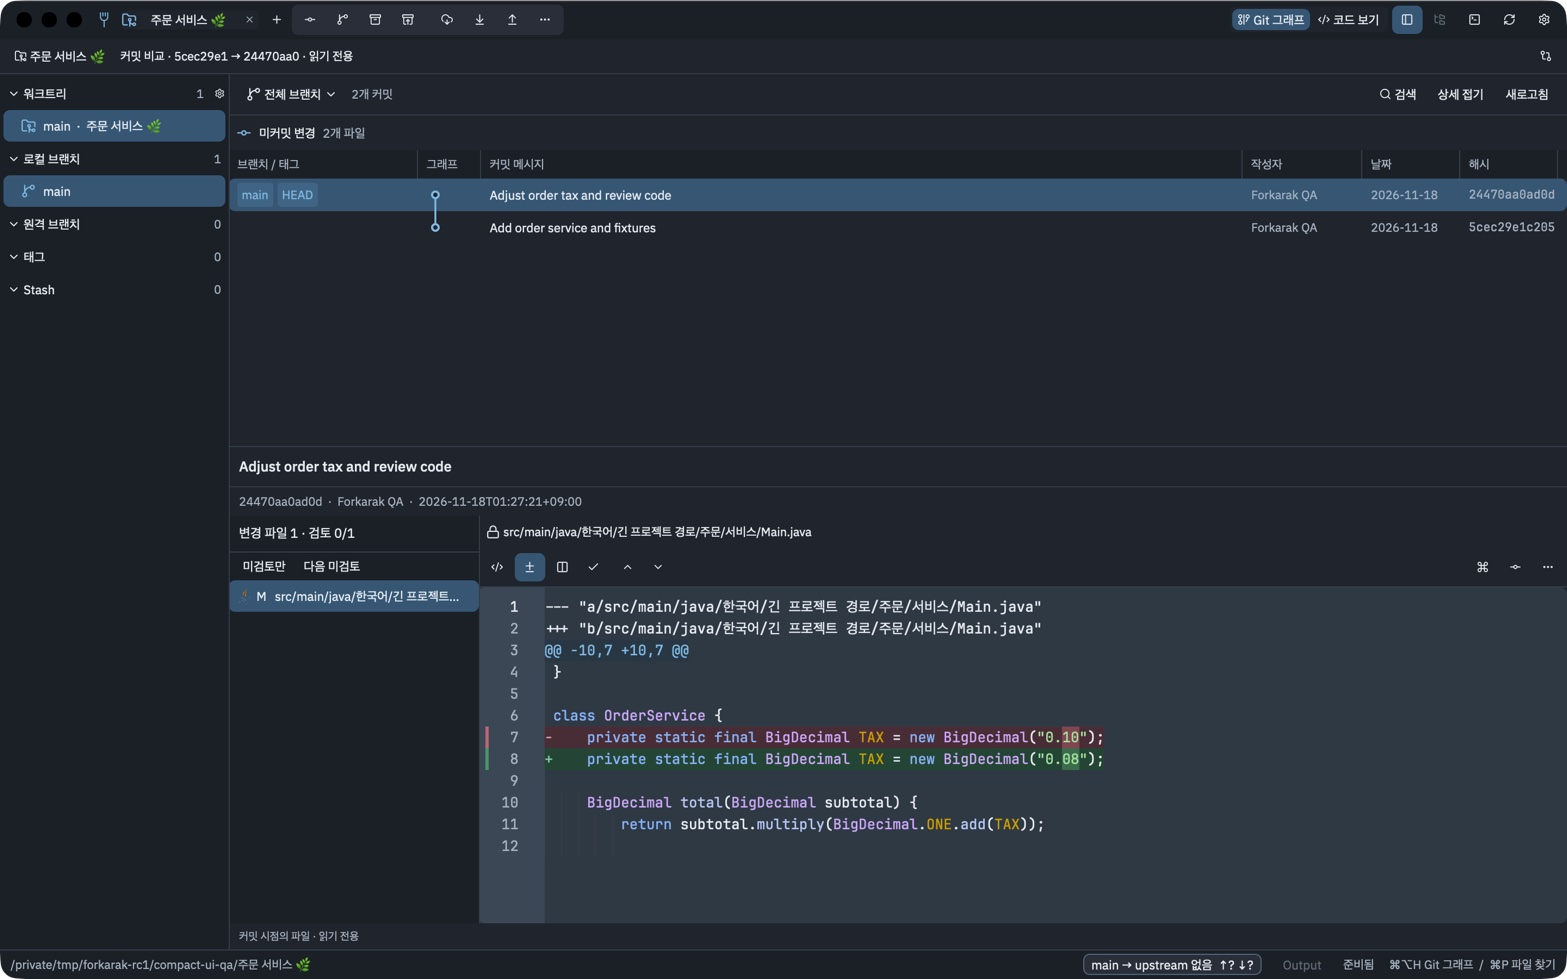
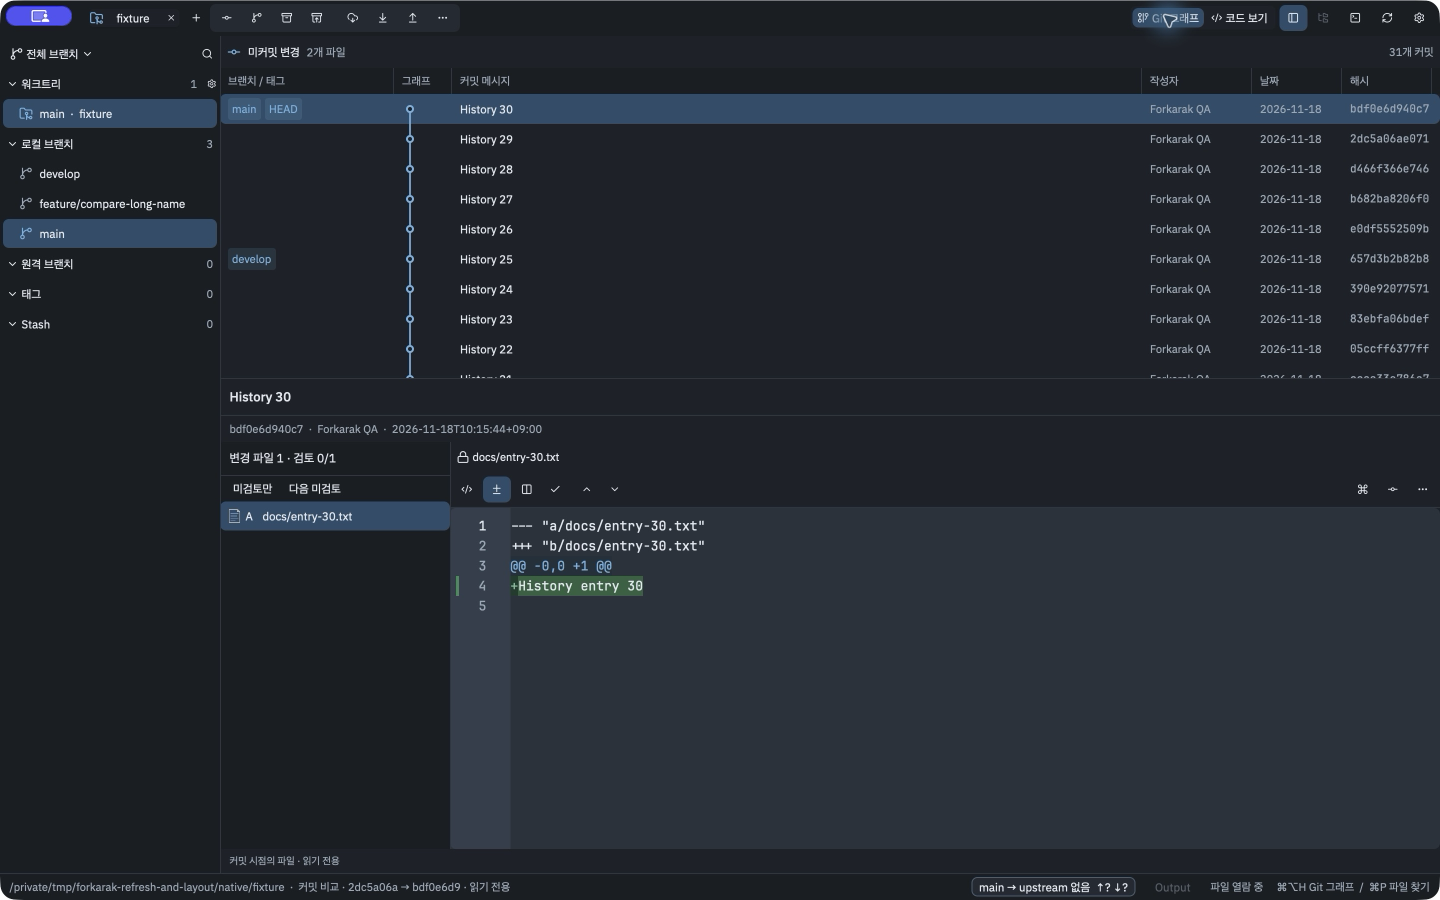
docs: clarify post-1.0 editing and refresh graph screenshot

diff --git a/README.md b/README.md
@@ -6,7 +6,7 @@
 
 ![Forkarak Code 화면. 워크트리와 파일 트리 옆에 TypeScript 주문 서비스가 열려 있고, 파일 탭 아래 도구가 한 줄에 정리되어 있습니다.](docs/images/code-workspace.png)
 
-*아래 기능은 Forkarak 1.0.0에 포함됩니다. 실제 앱 화면이며, 편집기 비교의 버전·촬영 조건은 아래 기록을 참고하세요.*
+*이 문서는 공개 v1.0.0 이후 개발 변경도 포함합니다. 실제 앱 화면이며, 편집기 비교의 버전·촬영 조건은 아래 기록을 참고하세요.*
 
 [VS Code·Zed와 같은 파일을 연 실제 화면 비교·촬영 조건](docs/images/editor-comparison/findings.md)
 
@@ -14,7 +14,9 @@
 
 **코드 보기**에서 파일 트리, 빠른 파일 열기, 프로젝트 텍스트 검색과 뒤로·앞으로 탐색을 사용하세요. 파일 탭과 한 줄 명령 모음은 작은 창에서 아이콘과 **더 보기** 메뉴로 바뀝니다. 파일·폴더 생성, 이름 변경·이동, 주석 토글, 줄 이동·복제, 일치 단어 선택, 줄 이동과 자동 줄바꿈도 제공합니다.
 
-작업 파일은 기본적으로 **읽기 전용 → 편집 → 저장 / ⌘S** 순서로 수정합니다. **설정 → 에디터·들여쓰기 → 파일 열기 모드**에서 바로 편집하도록 선택할 수 있습니다. Vim 키맵은 사용하지 않습니다. 시작 화면은 별도로 **설정 → 모양·시작 화면 → 기본 작업 화면**에서 에디터/Git를 선택하며, 기본값은 Git입니다. 마지막 작업 복원은 별도 설정입니다. 과거 커밋 파일은 항상 읽기 전용입니다.
+**v1.0.0 이후 개발 버전**에서는 작업 트리의 텍스트 파일을 **코드 보기**에서 바로 입력하고 **저장 / ⌘S**로 파일만 저장합니다. 별도 **편집** 전환이나 파일 열기 모드 설정은 없습니다. 실행 취소나 직접 수정으로 원본 내용으로 돌아오면 즉시 변경 없음으로 표시합니다. 바이너리·삭제 파일·과거 커밋·외부 소스와 diff는 읽기 전용입니다.
+
+Vim 키맵은 사용하지 않습니다. 시작 화면은 별도로 **설정 → 모양·시작 화면 → 기본 작업 화면**에서 에디터/Git를 선택하며, 기본값은 Git입니다. 마지막 작업 복원은 별도 설정입니다.
 
 **코드 지원…**에서 자동완성, 오류 확인, 파일 구조 검색, 함수 도움말과 타입·설명을 요청하세요. 정의·사용처·구현 탐색, 포맷과 미저장 버퍼 분석은 서버의 실제 지원 범위를 따릅니다. 파일 보기는 서버나 인덱싱을 기다리지 않으며, 텍스트 검색 결과를 의미 기반 참조라고 표시하지 않습니다.
 
@@ -30,9 +32,9 @@
 
 브랜치 생성·이름 변경·추적, Fetch/Pull/Push, Stash Apply/Pop, Merge/Rebase, Cherry-pick/Revert를 명시적으로 실행합니다. 대상 미리보기, 진행 출력·취소, 진행 중 작업의 Continue/Abort, 충돌의 Ours/Theirs/Base 비교와 명시적 저장·스테이징을 지원합니다. Reflog에서 복구 브랜치를 만들고, 마지막 커밋을 취소할 때 작업 파일을 유지할 수 있습니다. Clone/Init, 태그와 `.gitignore` 편집도 작업 대상을 확인한 뒤 실행합니다. 단순 조회나 워크트리 탐색이 저장소를 변경하지 않습니다.
 
-![실제 Git 그래프와 Java 커밋 diff. 검토 파일과 바뀐 단어가 표시되고 과거 파일은 읽기 전용입니다.](docs/images/graph-review.png)
+![예제 저장소의 Git 그래프에서 History 30 커밋과 docs/entry-30.txt 변경을 선택한 화면. 왼쪽 브랜치 필터·검색과 하단 커밋 비교 상태가 보입니다.](docs/images/graph-review.png)
 
-*작성한 예제 저장소에서 커밋을 선택한 화면입니다. 그래프와 과거 diff에도 한 줄 명령 모음을 사용합니다.*
+*작성한 예제 저장소의 선택 이력과 텍스트 파일 diff입니다. 왼쪽에 워크트리·브랜치와 필터·검색을, 하단 상태 표시줄에 비교 커밋과 읽기 전용 상태를 표시합니다.*
 
 ## 워크트리, 터미널과 AI
 
@@ -56,7 +58,7 @@
 
 ## 설치와 실행
 
-Apple Silicon Mac(M1 이상), macOS 13 이상이 대상입니다. 공개 안정 버전은 아래 명령이나 위 다운로드 링크로 설치합니다. **1.0.0에는 위 에디터·Git·언어 관리 기능과 두 CLI 명령이 포함됩니다.**
+Apple Silicon Mac(M1 이상), macOS 13 이상이 대상입니다. 공개 안정 버전은 아래 명령이나 위 다운로드 링크로 설치합니다. 공개 v1.0.0은 작업 파일을 읽기 전용으로 열고 **편집**으로 전환합니다. 위의 바로 편집·변경 상태 개선은 이후 소스 변경입니다.
 
 ```sh
 /bin/bash -o pipefail -c 'curl -fsSL https://github.com/dave915/Forkarak/releases/latest/download/install.sh | /bin/bash'

diff --git a/docs/language-analysis.md b/docs/language-analysis.md
@@ -1,10 +1,10 @@
 # Language analysis and managed tools
 
-This document describes the integrated development version. Public downloads may predate the native language manager; see [installation and source builds](distribution.md).
+이 문서는 공개 v1.0.0 이후 개발 변경도 포함합니다. [공개 버전 설치와 소스 빌드](distribution.md)를 구분해 확인하세요.
 
 ## Start in the app
 
-File viewing, syntax highlighting and text search work immediately, without installation, indexing or language-server startup. **코드 지원…** provides completion, diagnostics, file symbols, function help, hover/type information and code navigation when the selected server supports them. It is a set of code actions, separate from the Git/Code working-screen choice and from read/Edit mode.
+File viewing, syntax highlighting and text search work immediately, without installation, indexing or language-server startup. **코드 지원…** provides completion, diagnostics, file symbols, function help, hover/type information and code navigation when the selected server supports them. 작업 화면 선택과 코드 지원은 별개입니다. 작업 파일의 [바로 편집](../README.md#코드와-탐색)은 v1.0.0 이후 개발 변경이며, 언어 분석 허용을 뜻하지 않습니다.
 
 Open **Settings → 언어 분석·포맷 → 설치·업데이트 관리…** to reach **언어 지원 관리**. The manager distinguishes bundled tools, first-use downloads and unsupported/prerequisite-limited entries. Use **설치**, **업데이트 다운로드**, **취소** or **다시 시도** explicitly; version, source, checksum and license/notice details remain inspectable. Failed or cancelled updates retain the previous active installation. A pending code action can be resumed with **원래 요청 계속** only after the original file, source and trust are rechecked.
 
